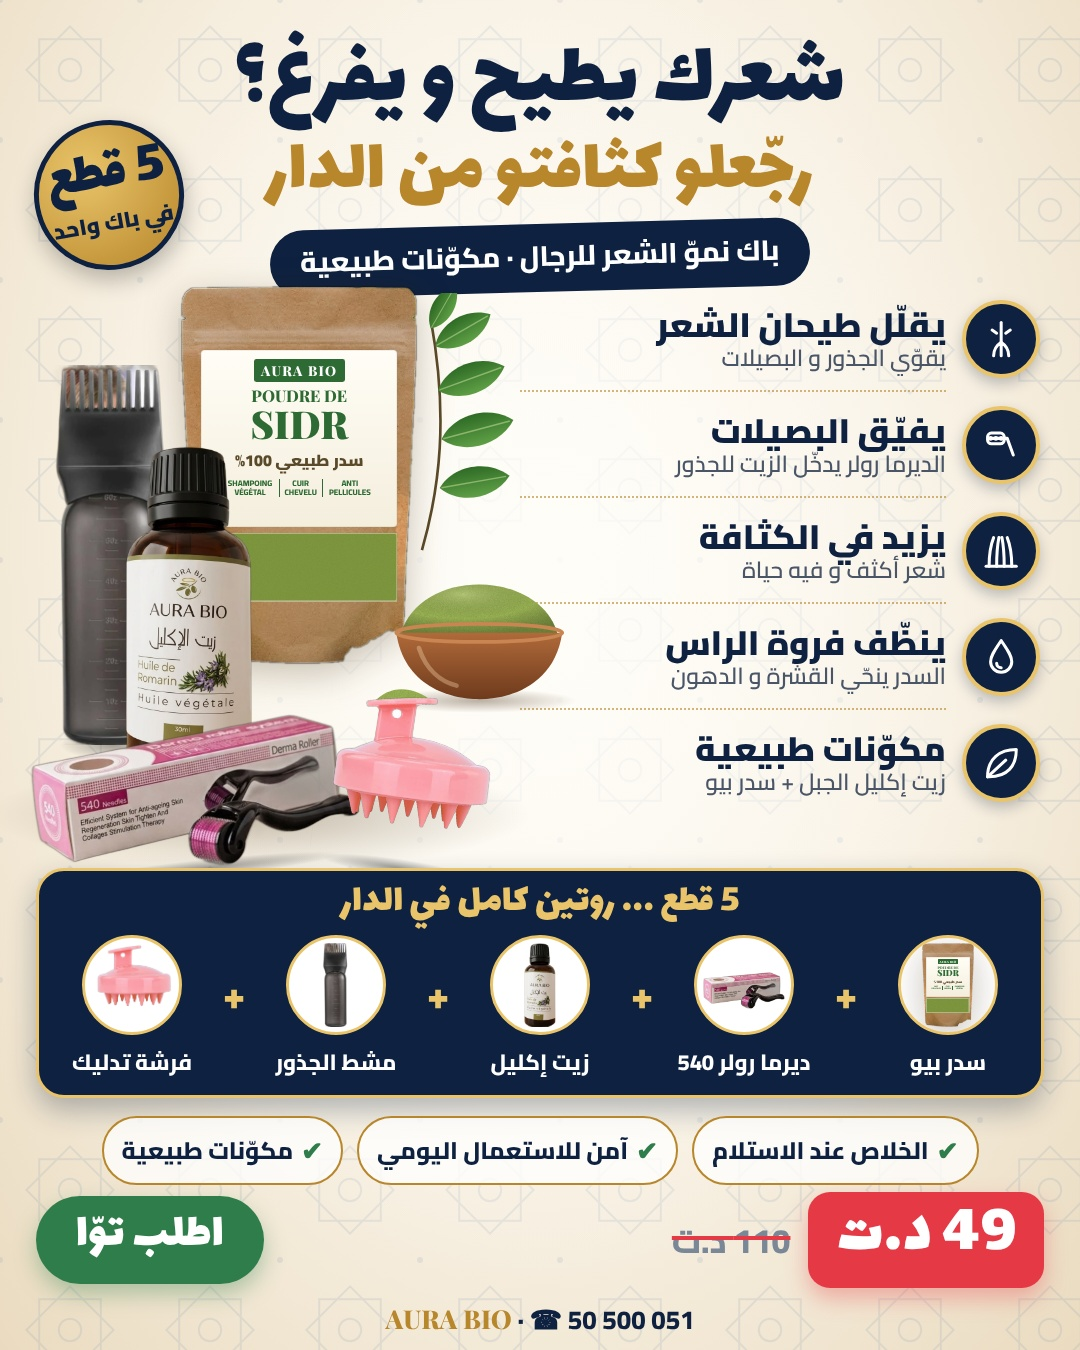
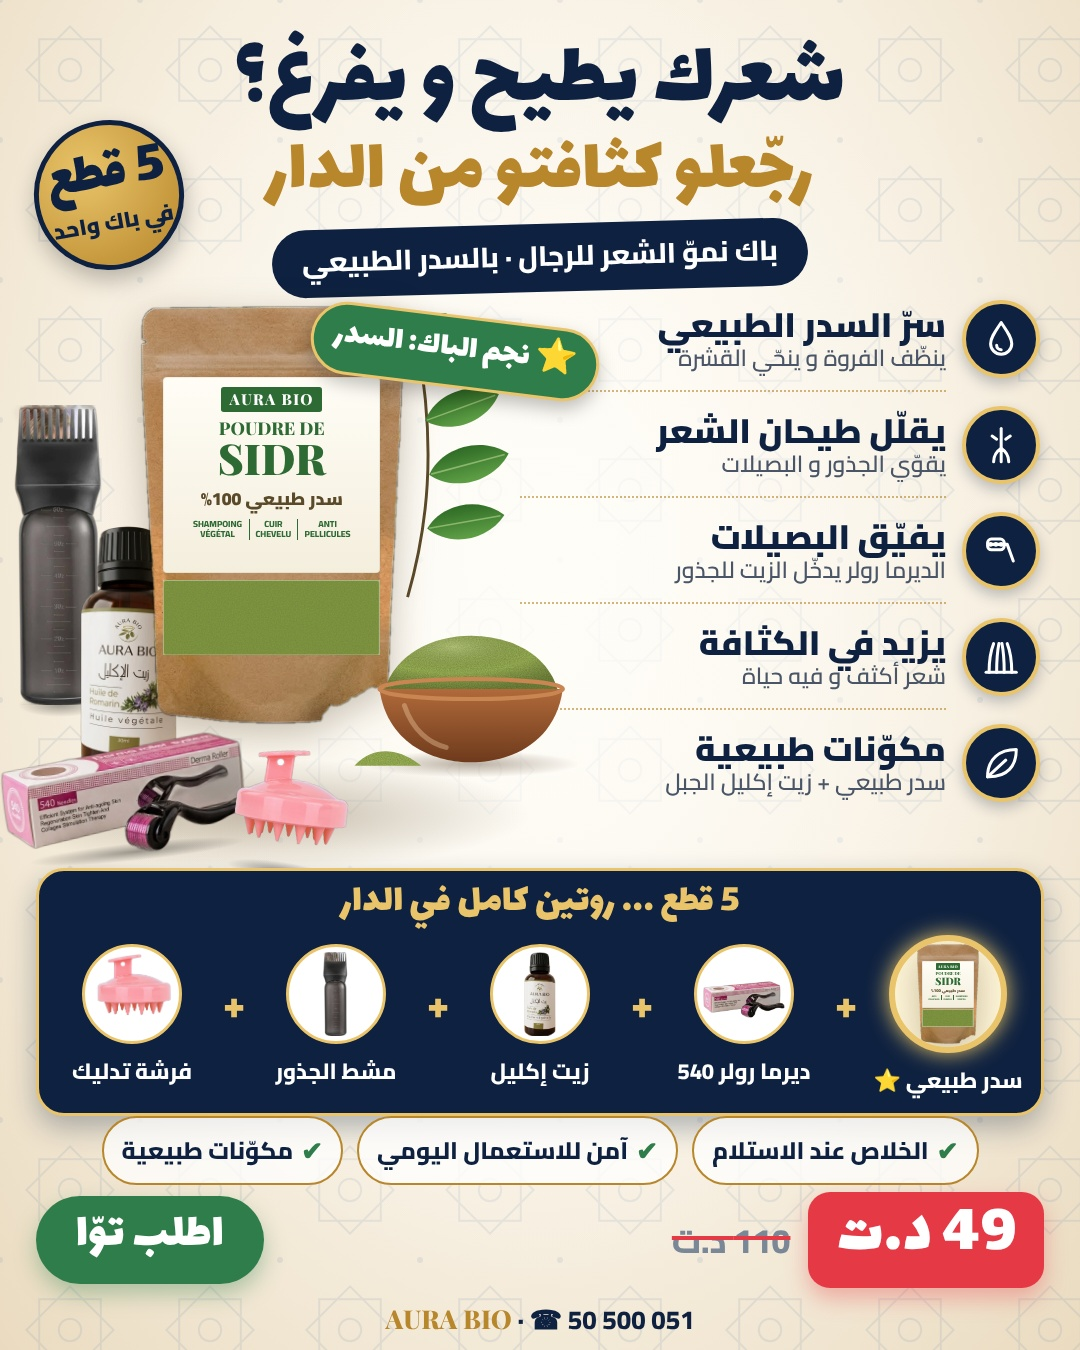
Real-pack static: sidr as the hero of the 5-piece pack (bigger pouch, star tag, first benefit, highlighted in routine)
Claude-Session: https://claude.ai/code/session_01FhwxWW9SZQzQKUB1AtjoA4

diff --git a/src/statics/RealPackAd.tsx b/src/statics/RealPackAd.tsx
@@ -87,11 +87,11 @@ const Icon: React.FC<{ readonly name: string; readonly size: number }> = ({
 );
 
 const BENEFITS: { icon: string; title: string; sub: string }[] = [
+  { icon: "drop", title: "سرّ السدر الطبيعي", sub: "ينظّف الفروة و ينحّي القشرة" },
   { icon: "root", title: "يقلّل طيحان الشعر", sub: "يقوّي الجذور و البصيلات" },
   { icon: "roller", title: "يفيّق البصيلات", sub: "الديرما رولر يدخّل الزيت للجذور" },
   { icon: "dense", title: "يزيد في الكثافة", sub: "شعر أكثف و فيه حياة" },
-  { icon: "drop", title: "ينظّف فروة الراس", sub: "السدر ينحّي القشرة و الدهون" },
-  { icon: "leaf", title: "مكوّنات طبيعية", sub: "زيت إكليل الجبل + سدر بيو" },
+  { icon: "leaf", title: "مكوّنات طبيعية", sub: "سدر طبيعي + زيت إكليل الجبل" },
 ];
 
 const BenefitList: React.FC = () => (
@@ -163,41 +163,64 @@ const Packshot: React.FC = () => (
           "radial-gradient(closest-side, rgba(70,45,10,0.30), rgba(70,45,10,0))",
       }}
     />
-    <SidrPouch
-      height={380}
-      style={{ position: "absolute", left: 170, top: 10 }}
-    />
+    {/* supporting pieces behind / around */}
     <ProductImage
       product="bottleBlack"
-      height={380}
-      style={{ position: "absolute", left: 40, top: 90 }}
+      height={300}
+      style={{ position: "absolute", left: 0, top: 130 }}
     />
     <ProductImage
       product="rosemaryOil"
-      height={330}
-      style={{ position: "absolute", left: 115, top: 170 }}
+      height={250}
+      style={{ position: "absolute", left: 70, top: 250 }}
+    />
+    {/* hero: sidr pouch + bowl, front and centre */}
+    <SidrPouch
+      height={420}
+      style={{ position: "absolute", left: 130, top: 30 }}
     />
     <ProductImage
       product="dermaRoller"
-      height={190}
+      height={150}
       style={{
         position: "absolute",
-        left: 20,
-        top: 405,
+        left: -10,
+        top: 430,
         rotate: "-6deg",
       }}
     />
     <ProductImage
       product="brushPink"
-      height={180}
-      style={{ position: "absolute", left: 310, top: 415, rotate: "8deg" }}
+      height={130}
+      style={{ position: "absolute", left: 215, top: 470, rotate: "8deg" }}
     />
+    {/* "star of the pack" tag */}
+    <div
+      style={{
+        position: "absolute",
+        left: 300,
+        top: 40,
+        rotate: "7deg",
+        background: GREEN,
+        color: colors.white,
+        border: `3px solid ${GOLD_LIGHT}`,
+        borderRadius: 40,
+        padding: "4px 20px 10px",
+        fontFamily: displayFont,
+        fontSize: 34,
+        direction: "rtl",
+        whiteSpace: "nowrap",
+        boxShadow: "0 8px 18px rgba(0,0,0,0.25)",
+      }}
+    >
+      ⭐ نجم الباك: السدر
+    </div>
   </div>
 );
 
 // ---------- Routine bar ----------
 const ROUTINE: { product: ProductKey; label: string }[] = [
-  { product: "sidr", label: "سدر بيو" },
+  { product: "sidr", label: "سدر طبيعي ⭐" },
   { product: "dermaRoller", label: "ديرما رولر 540" },
   { product: "rosemaryOil", label: "زيت إكليل" },
   { product: "bottleBlack", label: "مشط الجذور" },
@@ -247,11 +270,13 @@ const RoutineBar: React.FC = () => (
           >
             <div
               style={{
-                width: 100,
-                height: 100,
+                width: r.product === "sidr" ? 118 : 100,
+                height: r.product === "sidr" ? 118 : 100,
                 borderRadius: "50%",
-                background: colors.white,
-                border: `3px solid ${GOLD_LIGHT}`,
+                background: r.product === "sidr" ? "#FFF6D8" : colors.white,
+                border: `${r.product === "sidr" ? 6 : 3}px solid ${GOLD_LIGHT}`,
+                boxShadow:
+                  r.product === "sidr" ? `0 0 22px ${GOLD_LIGHT}` : "none",
                 display: "flex",
                 alignItems: "center",
                 justifyContent: "center",
@@ -259,7 +284,7 @@ const RoutineBar: React.FC = () => (
               }}
             >
               {r.product === "sidr" ? (
-                <SidrPouch height={84} withBowl={false} />
+                <SidrPouch height={100} withBowl={false} />
               ) : (
                 <ProductImage
                   product={r.product}
@@ -443,7 +468,7 @@ const Card: React.FC = () => (
           transform: "rotate(-1.5deg)",
         }}
       >
-        باك نموّ الشعر للرجال · مكوّنات طبيعية
+        باك نموّ الشعر للرجال · بالسدر الطبيعي
       </div>
     </div>
 

diff --git a/src/components/SidrPouch.tsx b/src/components/SidrPouch.tsx
@@ -17,7 +17,7 @@ const Powder: React.FC<{ readonly id: string; readonly base: string }> = ({
     <filter id={id} x="0" y="0" width="100%" height="100%">
       <feTurbulence
         type="fractalNoise"
-        baseFrequency="1.4"
+        baseFrequency="0.75"
         numOctaves="2"
         seed="7"
         result="n"
@@ -25,7 +25,7 @@ const Powder: React.FC<{ readonly id: string; readonly base: string }> = ({
       <feColorMatrix
         in="n"
         type="matrix"
-        values="0 0 0 0 0.18  0 0 0 0 0.22  0 0 0 0 0.05  0 0 0 0.55 0"
+        values="0 0 0 0 0.18  0 0 0 0 0.22  0 0 0 0 0.05  0 0 0 0.9 0"
         result="grain"
       />
       <feFlood floodColor={base} result="base" />
